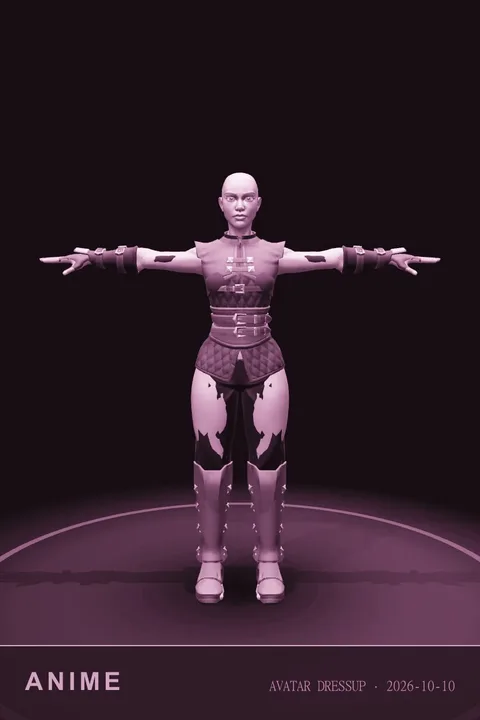
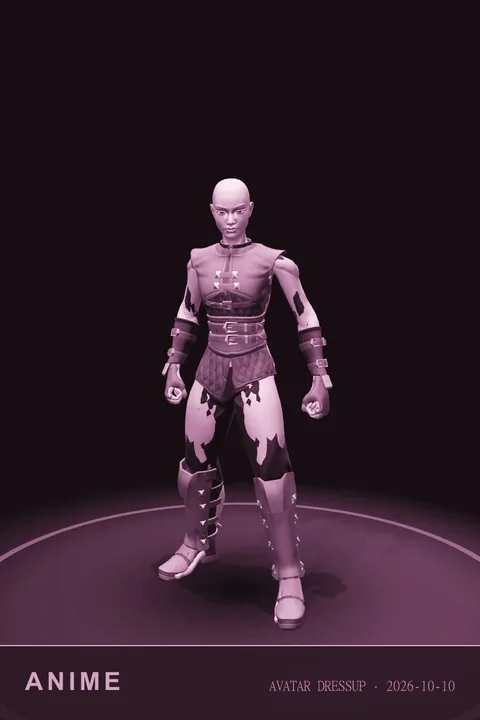
chore: 首页海报素材改用待机动画中的姿态重生成；开发期暴露 window.__viewer 便于排查 3D

Changed region(s): [[0.0938, 0.2139, 0.9062, 0.8861]]

diff --git a/components/DressUp.tsx b/components/DressUp.tsx
@@ -72,6 +72,8 @@ export default function DressUp() {
     const t = new ThumbnailRenderer(v.loader, assetUrl)
     setViewer(v)
     setThumbs(t)
+    // 开发期在控制台里能拿到视口对象排查 3D 问题；生产构建里这段会被去掉
+    if (process.env.NODE_ENV === 'development') (window as unknown as { __viewer?: AvatarViewer }).__viewer = v
     return () => {
       sync.stop()
       t.dispose()
